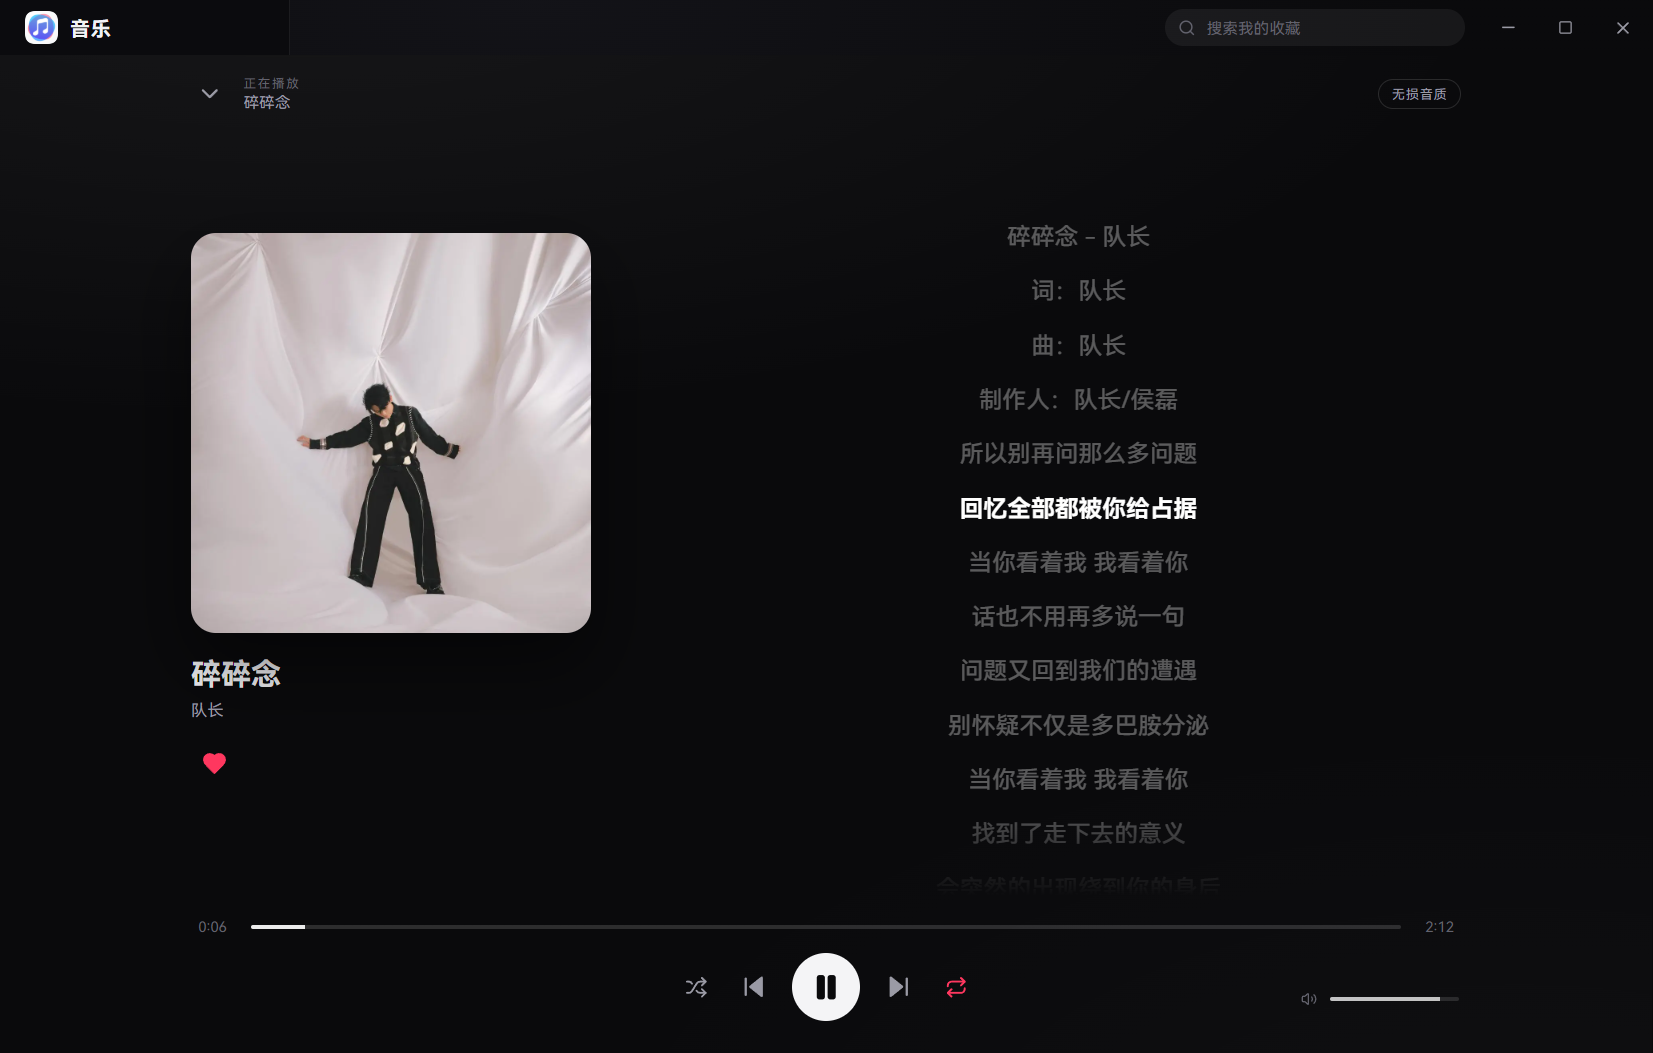
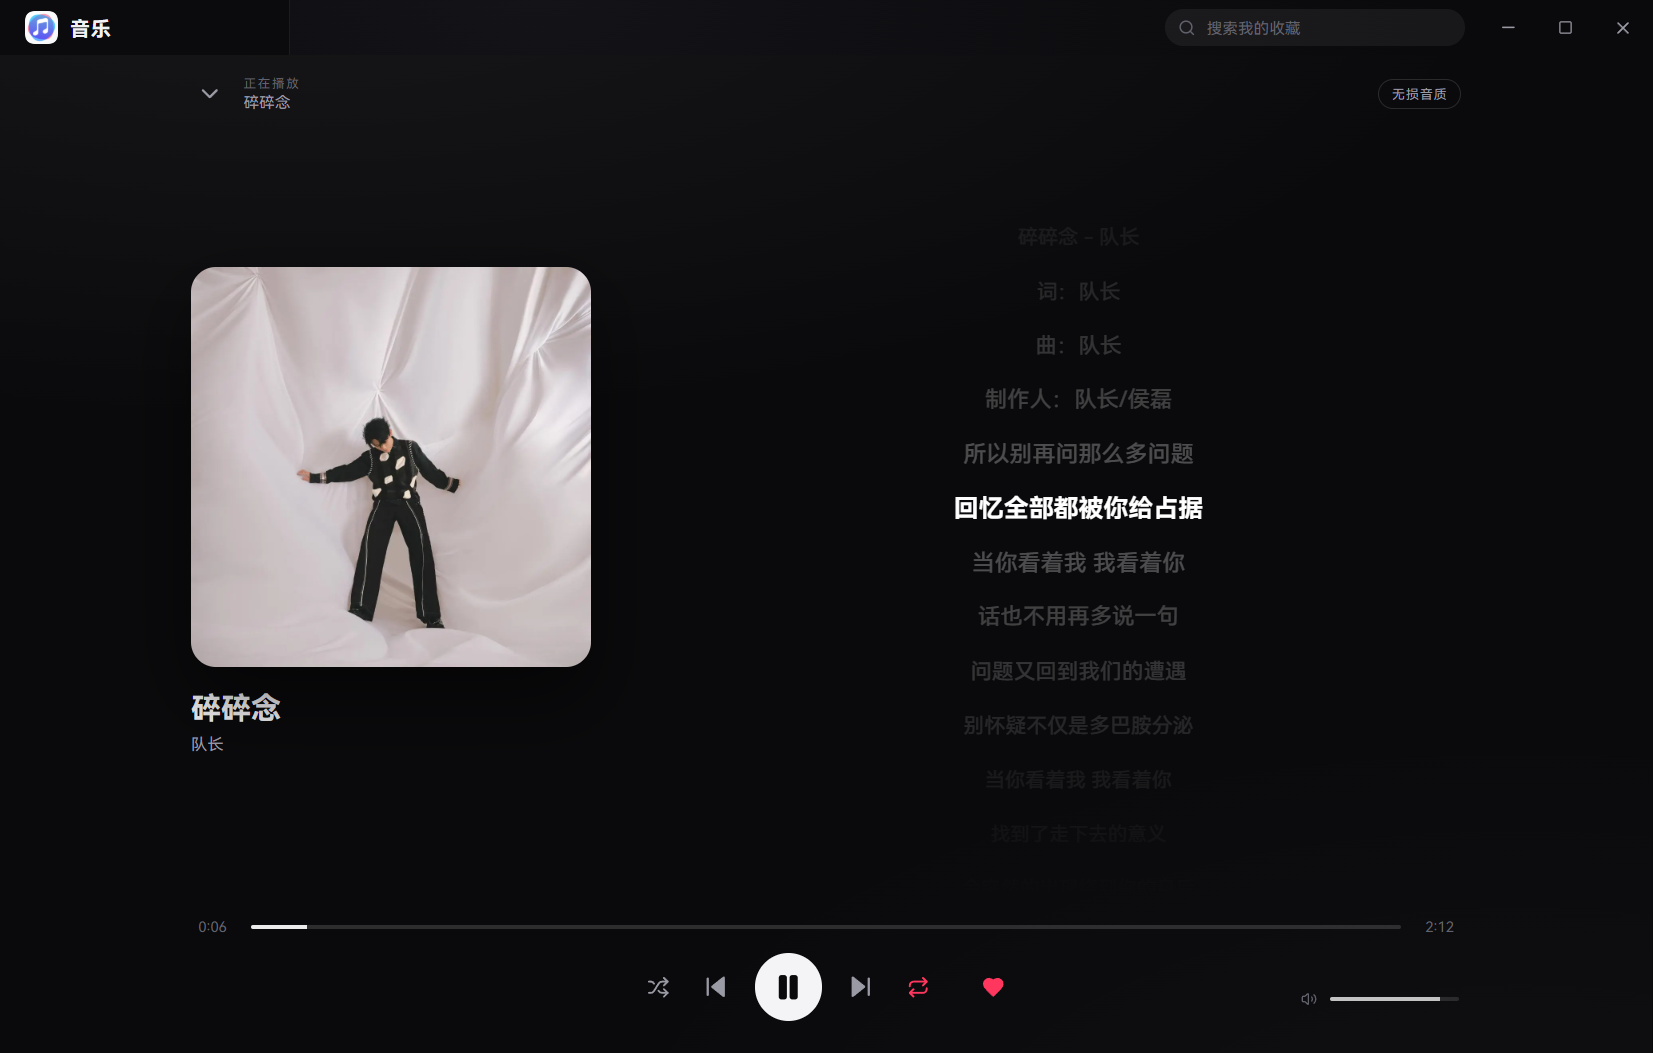
feat(player): 歌词纵深层次；收藏按钮并入播放条
- 歌词按与当前行的距离做透明度 + 缩放递减，当前行 1.05x 加粗，形成前后深度
- 播放页红心从封面下方移到播放条（循环按钮右侧）
- 首页/收藏的播放按钮去掉多余空白文本节点，图标与文案严格居中（左右各 20px）
- 同步更新全屏/窗口两套截图

diff --git a/src/renderer/PlayerView.tsx b/src/renderer/PlayerView.tsx
@@ -196,17 +196,6 @@ export function PlayerScreen({ player, onClose }: { player: Player; onClose: () 
             <h1 className="player-title">{track.title}</h1>
             <p className="player-artist">{artistsOf(track)}</p>
           </div>
-          <div className="player-actions">
-            <button
-              type="button"
-              className={`icon-button big ${player.favorite ? 'is-on' : ''}`}
-              onClick={() => void player.toggleFavorite()}
-              aria-label={player.favorite ? '取消收藏' : '收藏'}
-              title={player.favorite ? '取消收藏' : '收藏'}
-            >
-              <Heart size={20} fill={player.favorite ? 'currentColor' : 'none'} />
-            </button>
-          </div>
         </div>
 
         <div className="player-lyrics" ref={linesRef}>
@@ -216,17 +205,29 @@ export function PlayerScreen({ player, onClose }: { player: Player; onClose: () 
               <span>{player.lyrics ? '这首歌没有提供歌词' : '歌词还在路上…'}</span>
             </div>
           ) : (
-            lines.map((line, i) => (
-              <p
-                key={`${line.timeMs}-${i}`}
-                ref={i === activeIndex ? activeLineRef : null}
-                className={`lyric-line ${i === activeIndex ? 'is-active' : ''} ${synced ? '' : 'is-plain'}`}
-                onClick={() => line.timeMs !== null && player.seek(line.timeMs / 1000)}
-              >
-                {line.text}
-                {line.translation ? <span className="lyric-translation">{line.translation}</span> : null}
-              </p>
-            ))
+            lines.map((line, i) => {
+              // 以当前行为中心做「纵深」：离得越远越浅、越小。
+              const distance = activeIndex < 0 ? 0 : Math.min(Math.abs(i - activeIndex), 8);
+              const depthStyle =
+                activeIndex < 0
+                  ? undefined
+                  : {
+                      opacity: Math.max(0.14, 1 - distance * 0.16),
+                      transform: `scale(${distance === 0 ? 1.05 : Math.max(0.82, 1 - distance * 0.03)})`,
+                    };
+              return (
+                <p
+                  key={`${line.timeMs}-${i}`}
+                  ref={i === activeIndex ? activeLineRef : null}
+                  className={`lyric-line ${i === activeIndex ? 'is-active' : ''} ${synced ? '' : 'is-plain'}`}
+                  style={depthStyle}
+                  onClick={() => line.timeMs !== null && player.seek(line.timeMs / 1000)}
+                >
+                  {line.text}
+                  {line.translation ? <span className="lyric-translation">{line.translation}</span> : null}
+                </p>
+              );
+            })
           )}
         </div>
       </div>
@@ -267,6 +268,15 @@ export function PlayerScreen({ player, onClose }: { player: Player; onClose: () 
             title={player.repeat === 'one' ? '单曲循环' : player.repeat === 'all' ? '列表循环' : '不循环'}
           >
             {player.repeat === 'one' ? <Repeat1 size={18} /> : <Repeat size={18} />}
+          </button>
+          <button
+            type="button"
+            className={`icon-button favorite ${player.favorite ? 'is-on' : ''}`}
+            onClick={() => void player.toggleFavorite()}
+            aria-label={player.favorite ? '取消收藏' : '收藏'}
+            title={player.favorite ? '取消收藏' : '收藏'}
+          >
+            <Heart size={18} fill={player.favorite ? 'currentColor' : 'none'} />
           </button>
         </div>
 

diff --git a/src/renderer/screens.tsx b/src/renderer/screens.tsx
@@ -64,7 +64,8 @@ export function HomeScreen({
             <p className="hero-artist">{artistsOf(hero)}</p>
             <div className="hero-actions">
               <button type="button" className="primary-button" onClick={() => onPlay(heroPool, 0)}>
-                <Play size={15} fill="currentColor" /> 播放
+                <Play size={15} fill="currentColor" />
+                <span>播放</span>
               </button>
               {hero.durationSeconds ? <span className="hero-meta">{formatTime(hero.durationSeconds)}</span> : null}
             </div>
@@ -185,7 +186,8 @@ export function FavoritesScreen({
           </p>
         </div>
         <button type="button" className="primary-button" disabled={filtered.length === 0} onClick={() => onPlay(filtered, 0)}>
-          <Play size={15} fill="currentColor" /> 播放全部
+          <Play size={15} fill="currentColor" />
+          <span>播放全部</span>
         </button>
       </header>
 

diff --git a/src/renderer/styles.css b/src/renderer/styles.css
@@ -1199,11 +1199,6 @@ section {
   color: var(--muted);
 }
 
-.player-actions {
-  display: flex;
-  align-items: center;
-  gap: 6px;
-}
 
 .player-lyrics {
   overflow-y: auto;
@@ -1225,7 +1220,8 @@ section {
   line-height: 1.55;
   color: rgba(255, 255, 255, 0.33);
   cursor: pointer;
-  transition: color 0.18s ease;
+  transform-origin: center center;
+  transition: color 0.3s ease, opacity 0.38s ease, transform 0.38s cubic-bezier(0.2, 0.7, 0.3, 1);
 }
 
 .lyric-line:hover {
@@ -1313,6 +1309,10 @@ section {
 
 .player-play:hover {
   transform: scale(1.04);
+}
+
+.player-controls .favorite {
+  margin-left: 14px;
 }
 
 .player-volume {

diff --git a/docs/TECH-DESIGN.md b/docs/TECH-DESIGN.md
@@ -109,6 +109,7 @@ api.favorites() → 循环 music.favorites({start,limit:50}) 直到 hasMore=fals
 | `Space`（非输入框） | 播放/暂停 |
 | 点迷你条封面/标题或右下角图标 | 展开播放页 |
 | 收藏页红心 | 取消收藏（乐观更新，失败回滚） |
+| 播放页红心 | 已并入底部播放条（循环按钮右侧），和传输控制同一行 |
 
 ## 4. 视觉规范
 
@@ -128,7 +129,10 @@ api.favorites() → 循环 music.favorites({start,limit:50}) 直到 hasMore=fals
 排版：页面标题 27px/600、banner 标题 30px/600、区块标题 18px/600、行标题 13px/500、正文 14px、次级 12px。
 字体栈优先 `HarmonyOS Sans SC`，回退 `MiSans` / `Microsoft YaHei UI`。
 
-**动效克制**：卡片 hover `translateY(-3px)`、播放页 220ms 上浮淡入、红心/进度 160ms 过渡。不做弹跳、不做彩色阴影。
+**动效克制**：卡片 hover `translateY(-3px)`、播放页 200ms 淡入、红心/进度 160ms 过渡。不做弹跳、不做彩色阴影。
+
+**歌词纵深**：以当前行为中心，按 `|i - active|` 计算，透明度和 `scale()` 逐行递减（opacity 1 → 0.14，
+scale 1.05 → 0.82，最多算 8 行），当前行白色加粗，形成前后层次；过渡 380ms，切歌时是滑动而不是跳变。
 
 ### 4.1 窗口外壳
 
